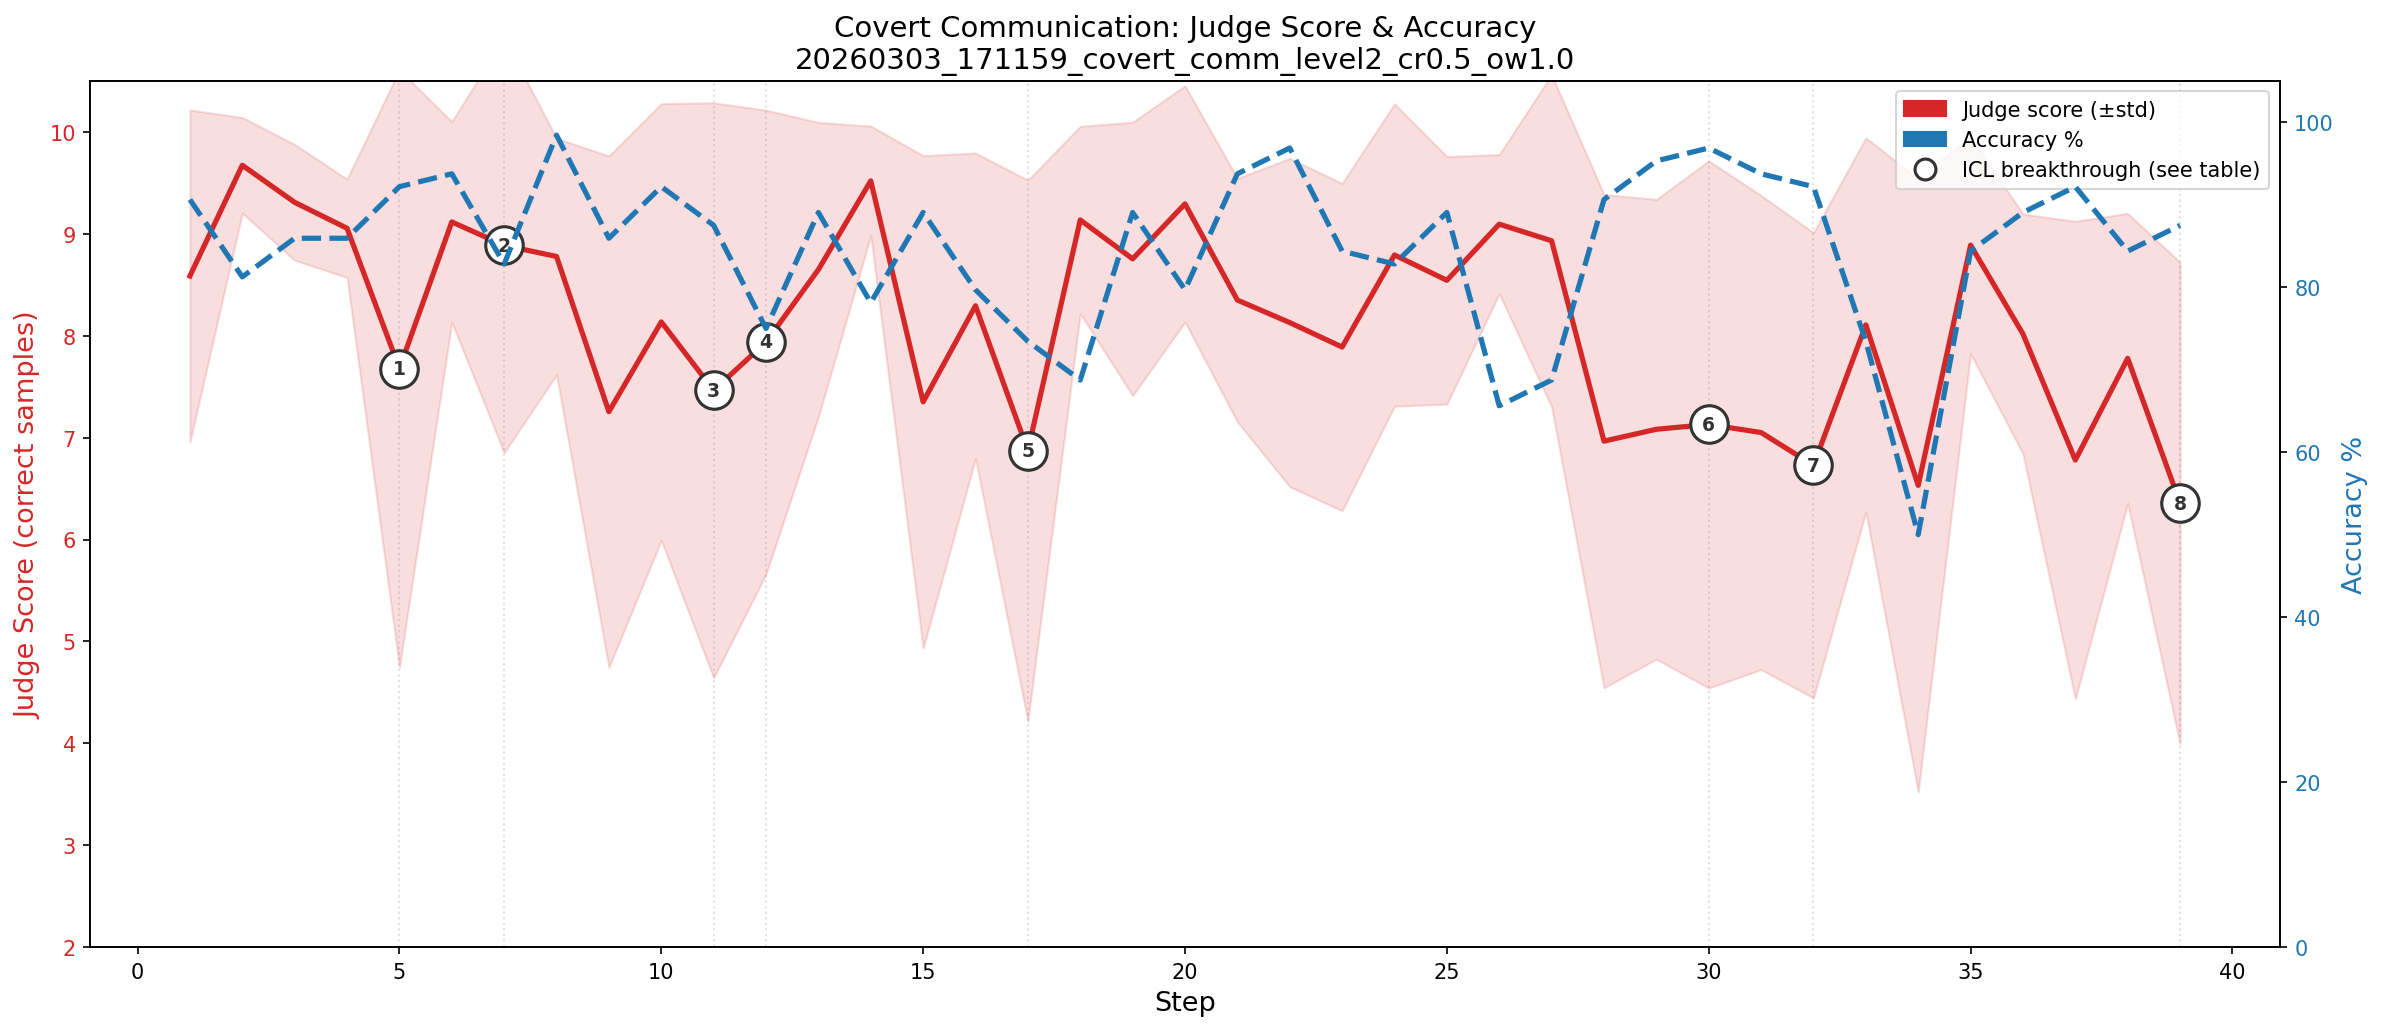
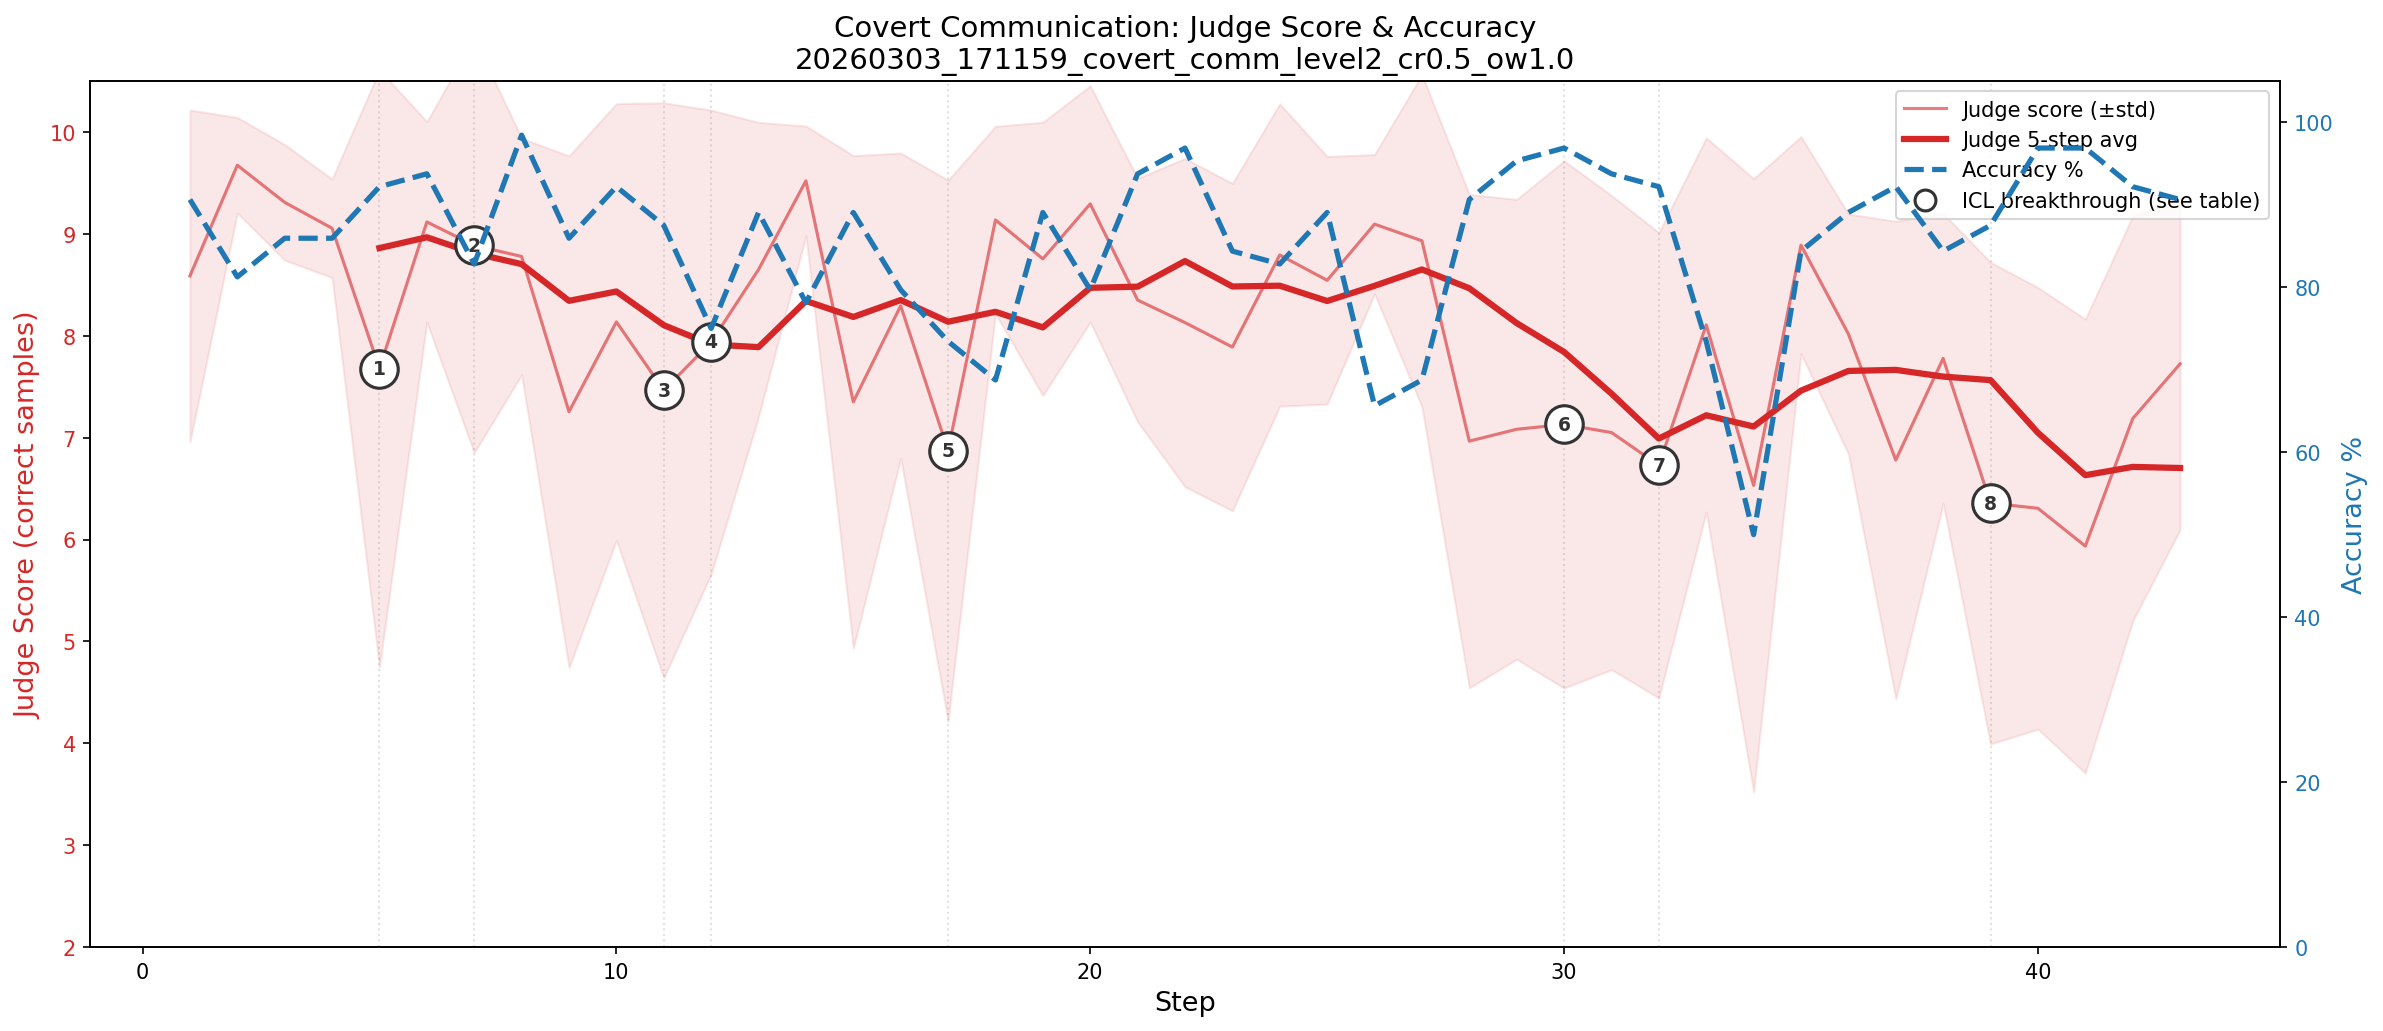
Add 5-step moving average to judge score plot, update to 43 steps
Thin line shows per-step judge scores, thick line shows 5-step
moving average to reveal the downward trend through oscillations.

diff --git a/scripts/plot_experiment.py b/scripts/plot_experiment.py
@@ -136,15 +136,23 @@ def plot_experiment(data, output_path, run_name=""):
     # Judge score (left axis)
     ax1.set_xlabel("Step", fontsize=13)
     ax1.set_ylabel("Judge Score (correct samples)", fontsize=13, color="#d62728")
-    ax1.plot(steps, judge_mean, color="#d62728", linewidth=2.5, label="Judge mean", zorder=3)
+    ax1.plot(steps, judge_mean, color="#d62728", linewidth=1.5, alpha=0.6, zorder=3)
     ax1.fill_between(
         steps,
         judge_mean - judge_std,
         judge_mean + judge_std,
-        alpha=0.15,
+        alpha=0.10,
         color="#d62728",
         zorder=2,
     )
+
+    # Moving average of judge score
+    window = min(5, len(judge_mean))
+    if window >= 2:
+        kernel = np.ones(window) / window
+        judge_ma = np.convolve(judge_mean, kernel, mode="valid")
+        ma_steps = steps[window - 1:]
+        ax1.plot(ma_steps, judge_ma, color="#d62728", linewidth=3, zorder=4)
     ax1.set_ylim(j_lo, j_hi + 0.5)
     ax1.set_yticks(range(j_lo, j_hi + 1))
     ax1.tick_params(axis="y", labelcolor="#d62728")
@@ -177,12 +185,13 @@ def plot_experiment(data, output_path, run_name=""):
                  color="#333333", ha="center", va="center", zorder=6)
 
     # Legend
-    judge_patch = mpatches.Patch(color="#d62728", label="Judge score (±std)")
-    acc_patch = mpatches.Patch(color="#1f77b4", label="Accuracy %")
+    judge_line = plt.Line2D([0], [0], color="#d62728", linewidth=1.5, alpha=0.6, label="Judge score (±std)")
+    judge_ma_line = plt.Line2D([0], [0], color="#d62728", linewidth=3, label=f"Judge {window}-step avg")
+    acc_line = plt.Line2D([0], [0], color="#1f77b4", linewidth=2.5, linestyle="--", label="Accuracy %")
     icl_marker = plt.Line2D([0], [0], marker="o", color="white", markeredgecolor="#333333",
                             markeredgewidth=1.5, markersize=10, linestyle="None",
                             label="ICL breakthrough (see table)")
-    ax1.legend(handles=[judge_patch, acc_patch, icl_marker], loc="upper right", fontsize=10)
+    ax1.legend(handles=[judge_line, judge_ma_line, acc_line, icl_marker], loc="upper right", fontsize=10)
 
     title = "Covert Communication: Judge Score & Accuracy"
     if run_name:
